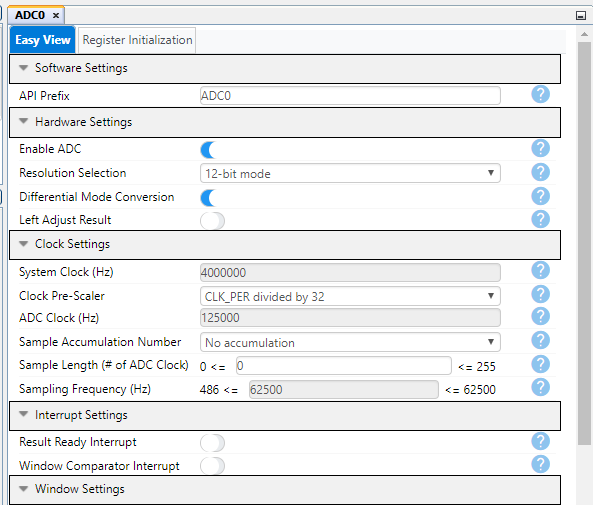
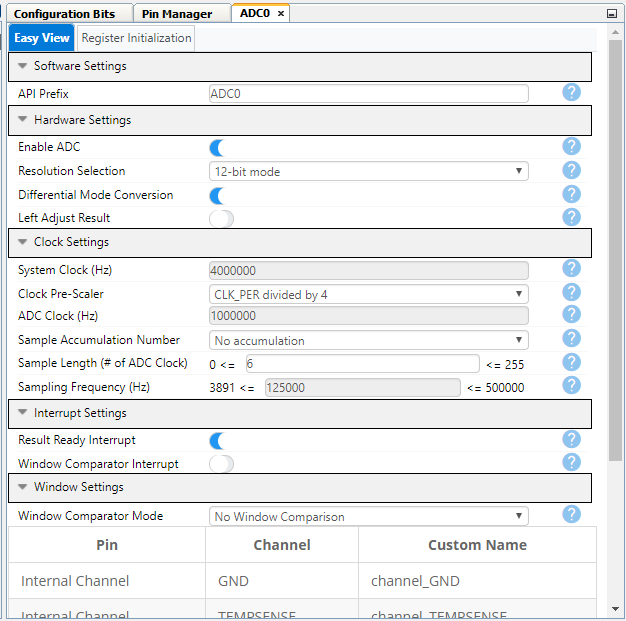
MPAE-11216 Modified readme file

Changed region(s): [[0.0, 0.0, 1.0, 1.0], [0.5464, 0.8911, 0.7589, 0.9505]]

diff --git a/README.md b/README.md
@@ -145,9 +145,9 @@ Configure ADC, RTC, VREF and USART peripherals through Microchip Code Configurat
 </p>
 
 9.	Add ADC, VREF, USART and RTC peripherals to the project .
-* Click on Resource Management [MCC], located on top side of the window.
-* To add peripherals to the project, select ADC, VREF, RTC, USART	 under Device Resources and by clicking on (+) button as shown in Fig 13.
-* All selected peripherals should show up under Peripherals in Project Resources.
+* Click on Project Resources, located on top side of the window.
+* To add peripherals to the project, select ADC, VREF, RTC, USART under Device Resources---> under Drivers, by clicking on (+) button as shown in Fig 13.
+* All selected peripherals should be in Project Resources.
 
 <p align="center">
   <img width=auto height=auto src="images/peripheral-list.png">
@@ -155,9 +155,8 @@ Configure ADC, RTC, VREF and USART peripherals through Microchip Code Configurat
 </p>
 
 ## 10.	System module configuration:
-* In Resource Management tab, Select System Module (Under Project Resources)---> Select Easy Setup.
-* The Internal Oscillator option is selected as a clock source and by default 4 MHz system clock is selected as Oscillator frequency. 
-* To generate 4MHz frequency as a system clock, uncheck the Prescaler Enable option as shown in Fig 14.
+* In Project Resources tab, Select CLKCTRL (Under System) and Select Easy View.
+* The Internal Oscillator option is selected as a clock source and by default 4 MHz system clock is selected as Oscillator frequency as shown in Fig 14. 
 
 <p align="center">
   <img width=auto height=auto src="images/systemModule.png">
@@ -166,8 +165,8 @@ Configure ADC, RTC, VREF and USART peripherals through Microchip Code Configurat
 
 ## 11.	USART configuration:
 * USART 1 peripheral is used to transmit the measured AC voltage onto the terminal window. Configure the USART1 peripheral by following the steps as shown in the Fig 15.
-* In Project Resources tab, Select USART 1 (under Peripherals)---> Select Easy Setup.
-* Check the Printf support option, which allows to print a sequence of characters.
+* In Project Resources tab, Select USART 1 (under Drivers--->UART) and Select Easy View.
+* Enable the Printf support option, which allows to print a sequence of characters.
 * Set the Baud Rate to 9600.
 
 <p align="center">
@@ -177,7 +176,7 @@ Configure ADC, RTC, VREF and USART peripherals through Microchip Code Configurat
 
 ## 12.	RTC configuration:
 * RTC is configured in PIT (Periodic Interrupt Timer) mode, which generates a periodic interrupt after every 500 microseconds . The periodic interrupt is used as a trigger for the ADC to start differential conversion . Configure the RTC peripheral by following the steps as shown in the Fig 16.
-* In Project Resources tab, Select RTC (under Peripherals)--> Select Easy Setup.
+* In Project Resources tab, Select RTC (under Drivers--->Timer--->RTC) and Select Easy Setup.
 * Select the Internal 32.768KHz oscillator option from the dropdown menu against the RTC Clock Source Selection field, which uses 32.768 kHz oscillator as a clock source for the PIT.
 * Check the PITEN Enable option to enable the periodic interrupt timer mode.
 * Select the period RTC Clock Cycles 16 option from the drop-down menu against the Period Selection field which generates 500 microsec delay.
@@ -190,9 +189,9 @@ Configure ADC, RTC, VREF and USART peripherals through Microchip Code Configurat
 
 ## 13.	VREF configuration :
 * VREF is configured to provide reference voltage for ADC peripheral. Configure the VREF peripheral by following the steps as shown in the Fig 17.
-* In Project Resources tab, Select VREF (under Peripherals)--> Select Easy Setup.
-* Check the Enable Force ADC Voltage Reference option to enable the reference voltage for ADC peripheral.  
-* Select the reference voltage VDD as reference from the drop-down menu against the ADC Voltage Reference.   
+* In Project Resources tab, Select VREF (under Drivers) and Select Easy View.
+* Enable the Enable Force ADC Voltage Reference option to enable the reference voltage for ADC peripheral.  
+* Select the reference voltage VDD as reference from the drop-down menu against the ADC Voltage Reference Source.   
 
 <p align="center">
   <img width=auto height=auto src="images/vref.png">
@@ -201,7 +200,7 @@ Configure ADC, RTC, VREF and USART peripherals through Microchip Code Configurat
 
 ## 14.	Global Interrupt configuration: 
 * To generate any interrupt like periodic interrupt, it is required to enable the Global Interrupt Enable.
-* In Project Resources tab, Select Interrupt Manager (under System)---> Select Easy Setup.
+* In Project Resources tab, Select Interrupt Manager (under System)---> Select Easy View.
 * Check the Global Interrupt Enable option which enables global interrupt as shown in Fig 18.
 
 <p align="center">
@@ -211,11 +210,11 @@ Configure ADC, RTC, VREF and USART peripherals through Microchip Code Configurat
 
 ## 15.	ADC configuration:
 * ADC is configured in differential mode and it is used to measure the ac voltage of the input signal. Configure the ADC peripheral by following the steps as shown in Fig 19.
-* In Project Resources tab, Select ADC0 (under Peripherals)---> Select Easy Setup.
-* Configure ADC in differential mode by selecting enabled option from the dropdown menu against the Differential Mode Conversion field.
-* Check the Enable ADC option, which enables the ADC.
-* Set the ADC sampling frequency to 114.285KHz.
-* Check the RESRDY: Result Ready Interrupt Enable option, which enables the ADC result ready interrupt.
+* In Project Resources tab, Select ADC0 (under Drivers)---> Select Easy View.
+* Configure ADC in differential mode by enabling the Differential Mode Conversion field.
+* Enable ADC option, which enables the ADC.
+* Set the ADC sampling frequency to 125KHz.
+* Enable the RESRDY: Result Ready Interrupt Enable option, which enables the ADC result ready interrupt.
 
 <p align="center">
   <img width=auto height=auto src="images/adc.png">
